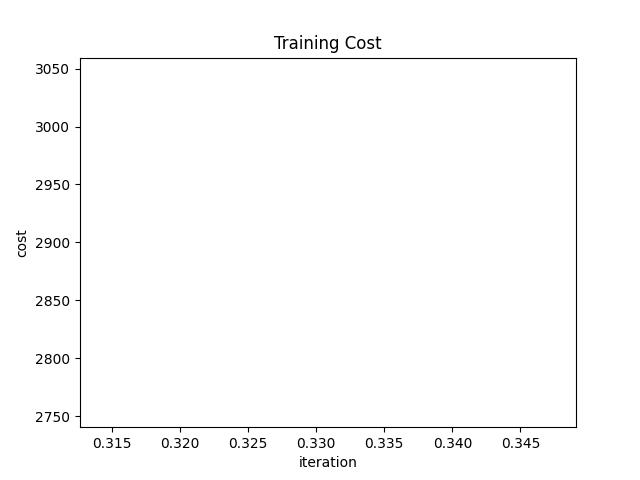
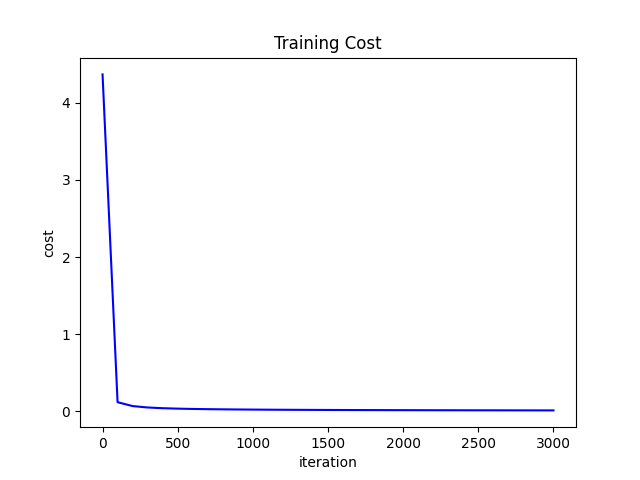
upgrade train neuron

diff --git a/supervised_learning/0x01-classification/7-neuron.py b/supervised_learning/0x01-classification/7-neuron.py
@@ -108,15 +108,27 @@ class Neuron:
             else:
                 raise TypeError("step must be an integer")
 
-        for iterations in range(0, iterations, step):
+        x_points = np.arange(0, iterations + 1, step)
+        points = []
+        for iteration in range(iterations):
             A = self.forward_prop(X)
-            cost = self.cost(Y, A)
+            if verbose and iteration % step == 0:
+                cost = self.cost(Y, A)
+                print(f"Cost after {iteration} iterations: {cost}")
+            if graph and iteration % step == 0:
+                cost = self.cost(Y, A)
+                points.append(cost)
             self.gradient_descent(X, Y, A, alpha)
-            if verbose == True:
-                print(f"Cost after {iterations} iterations: {cost}")
-        
+
+        iterations += 1
+        if verbose:
+            cost = self.cost(Y, A)
+            print(f"Cost after {iteration} iterations {cost}")
         if graph == True:
-            plt.plot(cost, iterations, color="blue")
+            cost = self.cost(Y, A)
+            points.append(cost)
+            y_points = np.asarray(points)
+            plt.plot(x_points, y_points, 'b')
             plt.xlabel("iteration")
             plt.ylabel("cost")
             plt.title("Training Cost")

diff --git a/supervised_learning/0x01-classification/7-main.py b/supervised_learning/0x01-classification/7-main.py
@@ -29,4 +29,4 @@ for i in range(100):
     plt.title(A[0, i])
     plt.axis('off')
 plt.tight_layout()
-plt.show()
+plt.savefig("entreno")
